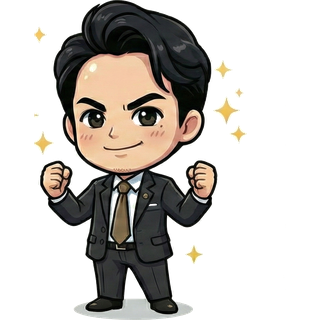
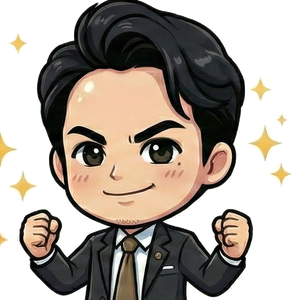
Add files via upload

diff --git a/nippo.html b/nippo.html
@@ -248,7 +248,7 @@ button.ghost.on{background:var(--accent);color:#fff;border-color:var(--accent)}
   <div id="hstats" class="hstats"></div>
   <div class="mascot" id="mascot">
     <div class="bubble" id="mbubble"></div>
-    <img src="./mascot.png" alt="" width="292" height="300">
+    <img src="./mascot.png?v=2" alt="" width="292" height="300">
   </div>
   <div id="userBadge"></div>
 </header>
